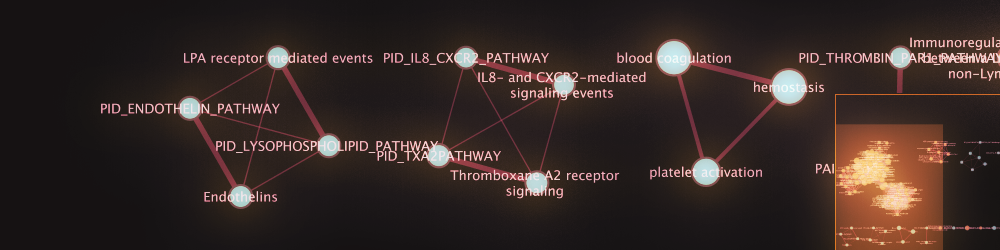
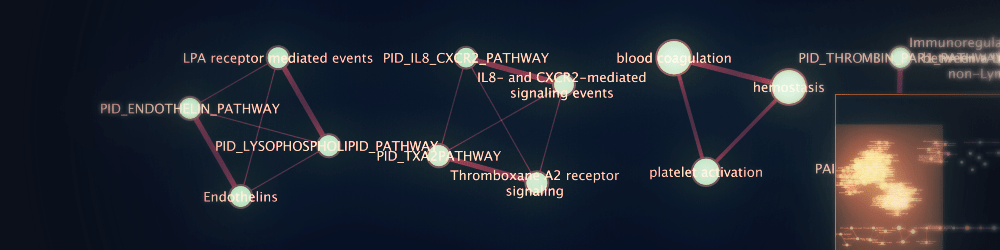
High contrast text / background panels

diff --git a/index.html b/index.html
@@ -103,12 +103,12 @@
         <div class="row">
           <div class="app col-xs-12 col-sm-6">
             <div class="app-panel">
-              <p class="app-panel-heading text-center">
+              <p class="app-panel-heading item-title text-center">
                 <a href="pathways/#/search" target="_blank" class="app-name ga ga-apps pc-url">
                   Search
                 </a>
               </p>
-              <p class="app-panel-subheading text-center">
+              <p class="text-center">
                 Search the entire collection of pathways
               </p>
               <form id="pathway-search-form" class="app-form">
@@ -132,12 +132,12 @@
 
           <div class="app col-xs-12 col-sm-6">
             <div class="app-panel">
-              <p class="app-panel-heading text-center">
+              <p class="app-panel-heading item-title text-center">
                 <a href="pcviz/" target="_blank" class="app-name ga ga-apps pc-url">
                   PCViz
                 </a>
               </p>
-              <p class="app-panel-subheading text-center">
+              <p class="text-center">
                 Get details about genes and their interactions
               </p>
               <form id="pcviz-form" class="app-form">
@@ -172,7 +172,7 @@
           <div class="pc-list-group-item">
             <a href="guide/" target="_blank" class="pc-url ga ga-training">
               <div class="pc-list-group-item-text">
-                <p class="pc-list-group-item-title text-center">Guide</p>
+                <p class="pc-list-group-item-title item-title text-center">Guide</p>
                 <p class="pc-list-group-item-description hidden-xs">
                   A pathway analysis online textbook: Workflows provide step-by-step instruction to pathway analysis; primers for deep-dives into concepts; case studies illustrate real-world use of methods and resources.
                 </p>
@@ -201,7 +201,7 @@
           <div class="pc-list-group-item">
             <a href="pc2/downloads" target="_blank" class="pc-url ga ga-data">
               <div class="pc-list-group-item-text">
-                <p class="pc-list-group-item-title text-center">File Downloads</p>
+                <p class="pc-list-group-item-title item-title text-center">File Downloads</p>
                 <p class="pc-list-group-item-description hidden-xs">
                     Data prepared in a variety of formats including Biological Pathway Exchange (BioPAX), Simple Interaction Format (sif) and as a Gene Set Database (gmt). Available per datasource.
                 </p>
@@ -222,7 +222,7 @@
           <div class="pc-list-group-item">
             <a href="pc2/" target="_blank" class="ga ga-data pc-url">
               <div class="pc-list-group-item-text">
-                <p class="pc-list-group-item-title text-center">Web Services</p>
+                <p class="pc-list-group-item-title item-title text-center">Web Services</p>
                 <p class="pc-list-group-item-description hidden-xs">
                   'Search' the BioPAX database with full-text; 'Get' an object by URI; use 'Graph' to identify connections and neighborhoods of elements; use 'Traverse' for XPath-like access to the database.
                 </p>
@@ -254,12 +254,12 @@
           <div class="pc-list-group-item">
             <a href="http://apps.cytoscape.org/apps/cypath2" target="_blank" class="ga ga-tools">
               <div class="pc-list-group-item-text">
-                <p class="pc-list-group-item-title text-center">CyPath2</p>
+                <p class="pc-list-group-item-title item-title text-center">CyPath2</p>
                 <p class="pc-list-group-item-description hidden-xs">
-                  Cytoscape app providing keyword search and retrieval of pathways from Pathway Commons along with advanced filtering and graph queries. Visualize results as a network by leveraging the power of Cytoscape.
+                  Cytoscape app providing keyword search and retrieval of pathways from Pathway Commons along with advanced filtering and graph queries.
                 </p>
                 <p class="pc-list-group-item-description hidden-sm hidden-md hidden-lg">
-                  Access Pathway Commons from Cytoscape.
+                  Use Pathway Commons from Cytoscape.
                 </p>
               </div>
               <div class="pc-list-group-item-meta">
@@ -273,9 +273,9 @@
           <div class="pc-list-group-item">
             <a href="http://bioconductor.org/packages/release/bioc/html/paxtoolsr.html" target="_blank" class="ga ga-tools">
               <div class="pc-list-group-item-text">
-                <p class="pc-list-group-item-title text-center">PaxToolsR</p>
+                <p class="pc-list-group-item-title item-title text-center">PaxToolsR</p>
                 <p class="pc-list-group-item-description hidden-xs">
-                  R package that faciliates interacting with BioPAX. Supports access to Pathway Commons web services that enables keyword search,  retrieving pathways in a variety of formats and graph queries.
+                  R package that faciliates interacting with BioPAX. Supports access to Pathway Commons web services.
                 </p>
                 <p class="pc-list-group-item-description hidden-sm hidden-md hidden-lg">
                   Use Pathway Commons data within R.
@@ -292,9 +292,9 @@
           <div class="pc-list-group-item">
             <a href="https://github.com/PathwayCommons/chibe" target="_blank" class="ga ga-tools">
               <div class="pc-list-group-item-text">
-                <p class="pc-list-group-item-title text-center">ChiBE</p>
+                <p class="pc-list-group-item-title item-title text-center">ChiBE</p>
                 <p class="pc-list-group-item-description hidden-xs">
-                  Chisio BioPAX Editor (ChiBE) is an editing and visualization tool for pathway models represented in BioPAX, using SBGN Process Description Language. Provides access to pathways from Pathway Commons.
+                  Chisio BioPAX Editor (ChiBE) is an editing and visualization tool for pathway models represented in BioPAX. Provides access to pathways from Pathway Commons.
                 </p>
                 <p class="pc-list-group-item-description hidden-sm hidden-md hidden-lg">
                   View and edit BioPAX pathway models.
@@ -315,9 +315,9 @@
           <div class="archive pc-list-group-item">
             <a href="http://biopax.baderlab.org/" target="_blank" class="ga ga-tools">
               <div class="pc-list-group-item-text">
-                <p class="pc-list-group-item-title text-center">BioPAX Validator</p>
+                <p class="pc-list-group-item-title item-title text-center">BioPAX Validator</p>
                 <p class="pc-list-group-item-description hidden-xs">
-                  The BioPAX Validator applies custom criteria to identify syntax and semantic errors. Rules originate from the BioPAX Level3 specification and the community best practice and provides errors or warnings in many categories.
+                  The BioPAX Validator applies custom criteria to identify syntax and semantic errors. Rules originate from the BioPAX Level3 specification.
                 </p>
                 <p class="pc-list-group-item-description hidden-sm hidden-md hidden-lg">
                   Validate BioPAX using Level3 specification.
@@ -559,12 +559,13 @@ and physical interactions involving proteins, DNA, RNA and small molecules and c
 
         <p class="boost text-justify">
           Post a question on the <a class="ga ga-contact" href="https://groups.google.com/forum/#!forum/pathway-commons-help/join" target="_blank">Pathway Commons help </a> Google group.
-          <br/>
-          Keep up-to-date by following the <a class="ga ga-contact" href="https://groups.google.com/forum/#!forum/pathway-commons-announcements/join" target="_blank">Pathway Commons announcements</a> Google group.
+        </p>
+        <p class="boost text-justify">
+            Keep up-to-date by following the <a class="ga ga-contact" href="https://groups.google.com/forum/#!forum/pathway-commons-announcements/join" target="_blank">Pathway Commons announcements</a> Google group.
         </p>
 
         <div id="social-media row">
-          <ul class="list-inline list-unstyled">
+          <ul class="list-inline">
             <li><a class="ga ga-contact ga-social" target="_blank" href="https://twitter.com/pathwaycommons"><i class="fa-twitter fa fa-2x"></i></a></li>
             <li><a class="ga ga-contact ga-social" target="_blank" href="https://github.com/pathwaycommons/"><i class="fa-github fa fa-2x"></i></a></li>
           </ul>
@@ -575,7 +576,7 @@ and physical interactions involving proteins, DNA, RNA and small molecules and c
       <footer>
         <div class="row">
           <div class="col-xs-3 col-sm-2">
-            <img class="img-responsive brand" alt="pc-logo" src="images/pc_logo_250.png" >
+            <img class="img-responsive brand hidden-xs" alt="pc-logo" src="images/pc_logo_250.png" >
           </div>
           <p class="text-muted col-xs-12 col-sm-10">
             Pathway Commons is a collaboration between the <a target="_blank" href="http://baderlab.org/">Bader Lab</a> at the <a target="_blank" href="https://www.utoronto.ca/">University of Toronto</a>, the <a target="_blank" href="http://www.sanderlab.org/">Sander Lab</a> at the <a target="_blank" href="http://www.dana-farber.org/">Dana-Farber Cancer Institute</a> and <a target="_blank" href="http://hms.harvard.edu/">Harvard Medical School</a> and the Demir Lab at <a target="_blank" href="http://www.ohsu.edu/">Oregon Health & Science University</a>.

diff --git a/css/pc.css b/css/pc.css
@@ -1,11 +1,13 @@
 /* START: GLOBAL */
 body {
+  color: rgb(37, 52, 67);
+  font-size: 16px;
   padding-top: 10px;
   padding-bottom: 30px;
 }
 
 a:hover {
-  color: #34495E;
+  color: rgb(37, 52, 67);
 }
 
 .modal-trigger {
@@ -41,6 +43,12 @@ a:hover {
 .list-group-item dl dd {
   margin-left: 1em;
 }
+
+.item-title {
+  font-weight: bold;
+  font-size: 24px;
+}
+
 /* Typography */
 .boost {
   font-size: 18px;
@@ -60,6 +68,9 @@ footer {
 
 /* pc-list-group */
 .pc-list-group .pc-list-group-item {
+  border-style: solid;
+  border-width: 1px;
+  border-color: #95a5a6;
   margin-top: 1.5em;
   position: relative;
   padding: 0;
@@ -67,8 +78,8 @@ footer {
 
 .pc-list-group .pc-list-group-item .pc-list-group-item-text {
   position: absolute;
-  color: #ECF0F1;
-  background: rgba(44, 62, 80, 0.90);
+  color: rgb(37, 52, 67);
+  background: rgba(236, 240, 241, 0.90);
   z-index: 1;
   top: 0;
   bottom: 0;
@@ -77,22 +88,18 @@ footer {
   padding: 1em;
   overflow: hidden;
   padding: 1.5em;
-  width: 50%;
+  width: 40%;
 }
 .pc-list-group .pc-list-group-item .pc-list-group-item-text .pc-list-group-item-title {
-  font-size: 21px;
   margin-bottom: 1.375rem;
 }
 .pc-list-group .pc-list-group-item .pc-list-group-item-text .pc-list-group-item-description {
   text-align: left;
-  color: #ECF0F1;
-  font-size: 16px;
 }
 .pc-list-group .pc-list-group-item .pc-list-group-item-text .pc-list-group-item-description-footer {
   position: absolute;
   margin: 0.5em;
   right: 1em;
-  font-weight: 200;
 }
 .pc-list-group .pc-list-group-item .pc-list-group-item-meta {
   display: inline;
@@ -114,7 +121,7 @@ footer {
   /* pc-list-group */
   .pc-list-group .pc-list-group-item .pc-list-group-item-text {
     padding: 0.8em;
-    width: 70%;
+    width: 60%;
   }
   .pc-list-group .pc-list-group-item .pc-list-group-item-meta {
     top: 0;
@@ -129,15 +136,6 @@ footer {
     padding-right: 2px;
   }
 
-  .boost {
-    font-size: 16px;
-  }
-
-  /* alert */
-  .alert-pc {
-    margin: auto 0.5em auto 1em;
-  }
-
   /* pc-list-group */
   .pc-list-group .pc-list-group-item {
     margin-top: 0.2em;
@@ -147,7 +145,6 @@ footer {
       width: 100%;
   }
   .pc-list-group .pc-list-group-item .pc-list-group-item-text .pc-list-group-item-title {
-    font-size: 18px;
     margin-bottom: 0.5em;
   }
 
@@ -243,28 +240,25 @@ footer {
 
 /* START: Apps */
 #apps .app {
-  color: #ECF0F1;
-  font-size: 16px;
+  color: rgb(37, 52, 67);
   padding-left: 5px;
   padding-right: 5px;
 }
 
 #apps .app .app-panel {
-  background-color: #2c3e50;
+  border-style: solid;
+  border-width: 1px;
+  border-color: #95a5a6;
+  background: rgba(236, 240, 241, 0.90);
 }
 
 #apps .app .app-panel .app-panel-heading {
-  font-size: 21px;
   padding-top: 0.5em;
 }
 
 #apps .app .app-panel .app-panel-heading > a {
-  color: #ECF0F1;
+  color: rgb(37, 52, 67);
   text-decoration: underline;
-}
-
-#apps .app .app-panel .app-panel-subheading {
-  margin: 0;
 }
 
 #apps .app .app-panel .app-form {
@@ -300,7 +294,6 @@ footer {
 
 .qa .well p, li {
     text-align: justify;
-    font-size: 16px;
 }
 
 #faq h2 {
